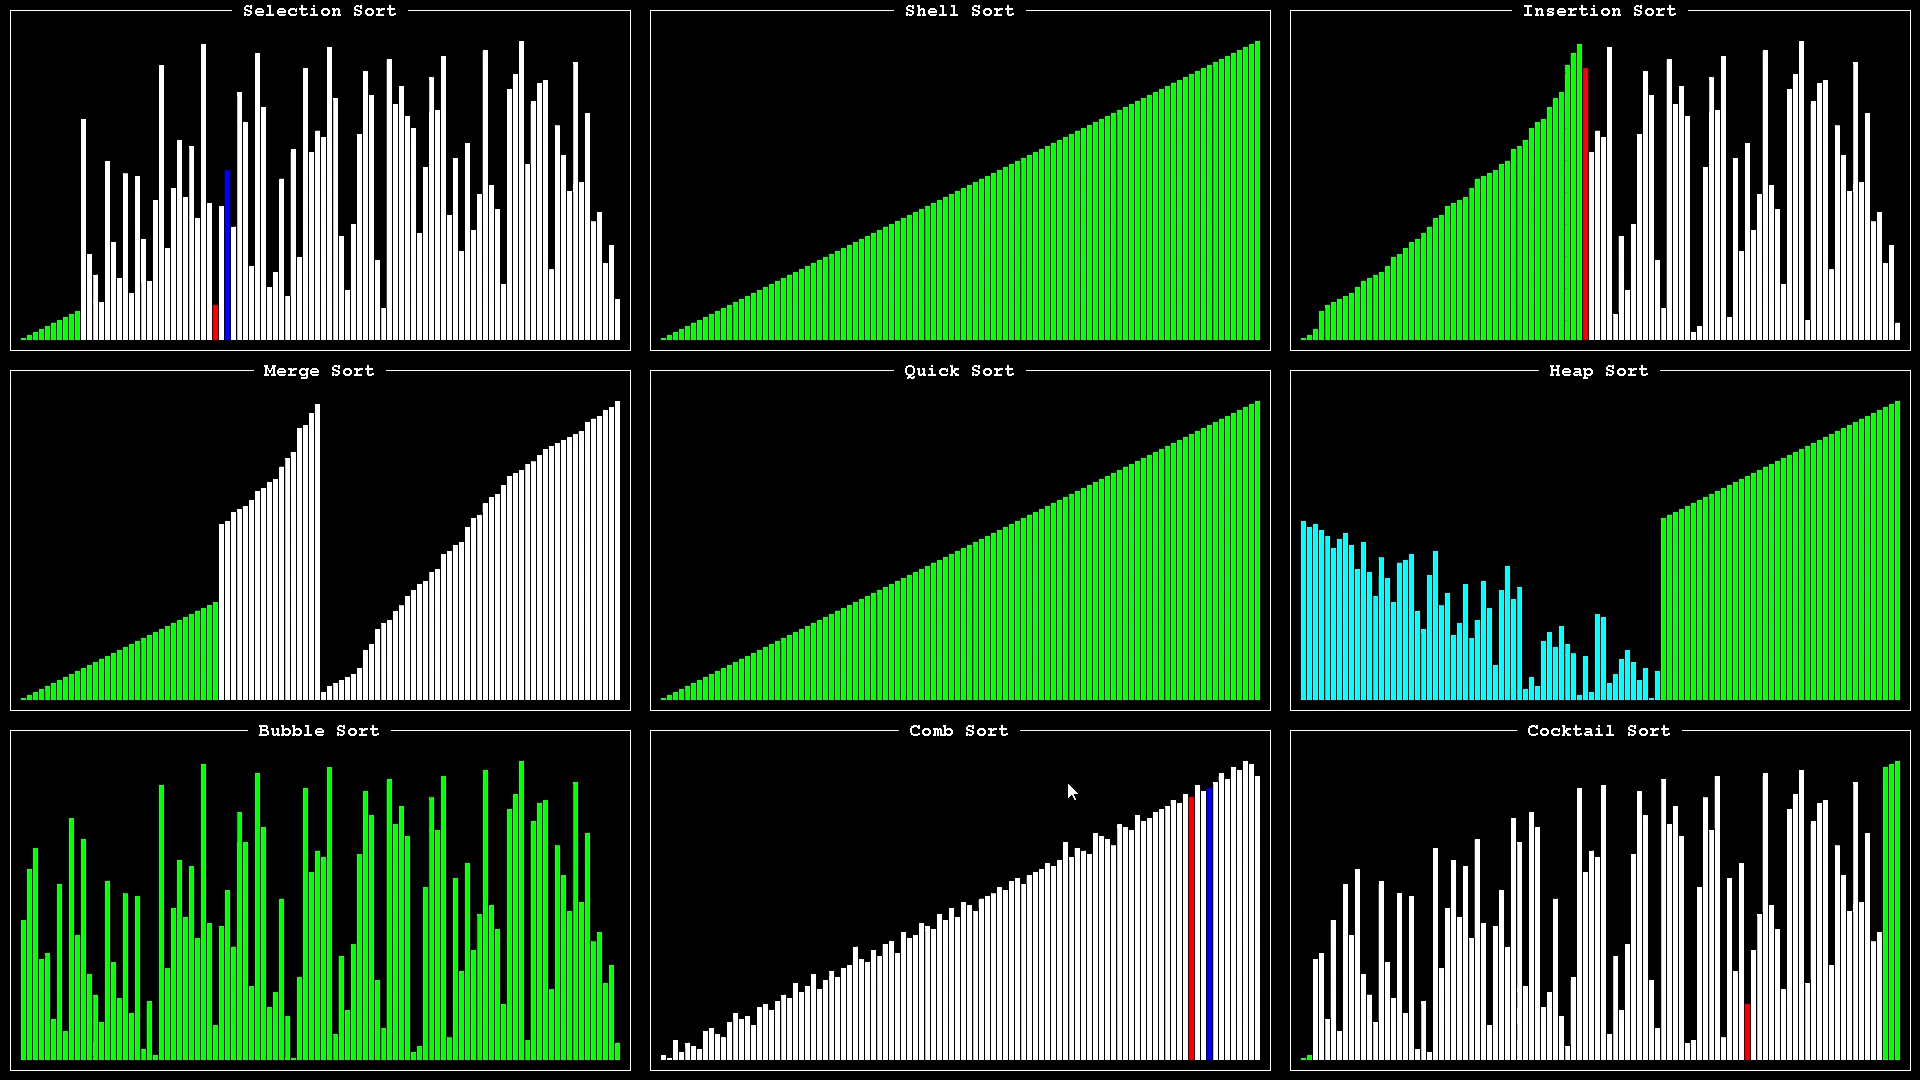
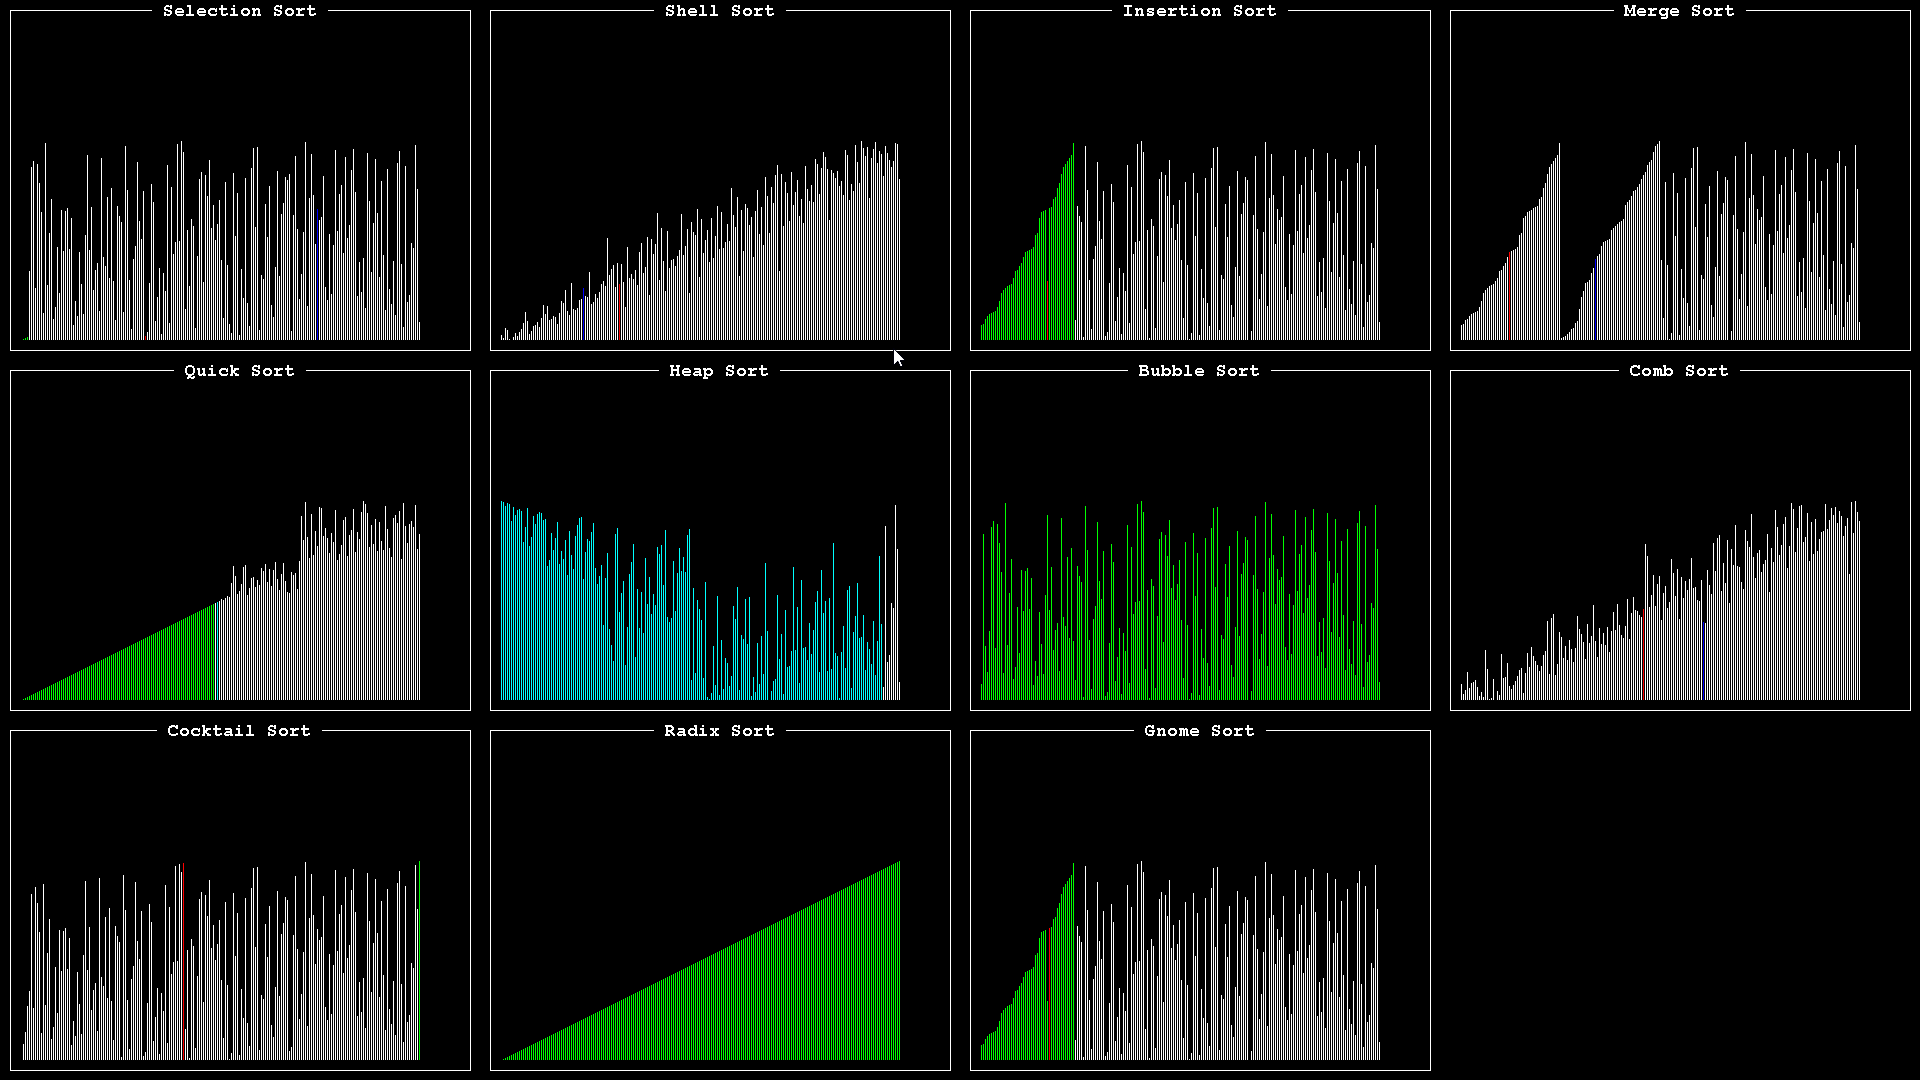
Added Radix and Gnome sort

diff --git a/src/net/mechanika/sorting/RadixSortPanel.java b/src/net/mechanika/sorting/RadixSortPanel.java
@@ -1,0 +1,128 @@
+package net.mechanika.sorting;
+
+import java.awt.Color;
+import java.awt.Graphics;
+import java.util.ArrayList;
+import java.util.List;
+
+public class RadixSortPanel extends SortPanel {
+    private static final long serialVersionUID = 1L;
+    private int redColumn = -1;
+    private int blueColumn = -1;
+    private int cyanColumn = -1;
+    private int greenColumn = -1;
+    final int RADIX = 10;
+
+    public RadixSortPanel(String name, int sleepTime, int width, int height) {
+        super(name, sleepTime, width, height);
+    }
+
+    @Override
+    public void reset() {
+        redColumn = -1;
+        blueColumn = -1;
+        greenColumn = -1;
+        cyanColumn = -1;
+    }
+
+    @Override
+    public void run() {
+        try {
+
+            boolean maxLength = false;
+            int tmp = -1, placement = 1, digit;
+
+            List<Integer>[] bucket = new ArrayList[RADIX];
+            for (int i = 0; i < bucket.length; i++) {
+                bucket[i] = new ArrayList<Integer>();
+            }
+
+            while (!maxLength) {
+                maxLength = true;
+
+                for (int i = 0; i < list.length; i++) {
+                    tmp = list[i] / placement;
+                    digit = tmp % 10;
+                    bucket[digit].add(list[i]);
+                    if (maxLength && tmp > 0) {
+                        maxLength = false;
+                    }
+                    // cyanColumn = (i % 10) == 0 ? i : -1;
+                    // repaint();
+                    // Thread.sleep(2 * sleepTime);
+                }
+
+                // System.out.println("second loop");
+
+                int a = 0;
+                for (int b = 0; b < RADIX; b++) {
+                    for (Integer i : bucket[b]) {
+                        // list[a++] = count[b][i];
+                        redColumn = a;
+                        if (maxLength) {
+                            greenColumn = a;
+                        }
+                        list[a++] = i;
+                        repaint();
+                        Thread.sleep(2 * sleepTime);
+                    }
+                    bucket[b].clear();
+                }
+                // greenColumn = a;
+                // greenColumn--;
+                redColumn = -1;
+                repaint();
+                Thread.sleep(4 * sleepTime);
+
+                placement *= RADIX;
+            }
+
+            // for (int i = 0; i < list.length; i++) {
+            //     greenColumn = i;
+            //     repaint();
+            //     Thread.sleep(sleepTime);
+            // }
+            redColumn = -1;
+            cyanColumn = -1;
+        } catch (InterruptedException e) {
+        }
+        repaint();
+    }
+
+    @Override
+    protected void paintComponent(Graphics g) {
+        super.paintComponent(g);
+        int columnWidth = (getWidth() - 4 * BORDER_WIDTH) / size;
+        int columnHeight = (getHeight() - 4 * BORDER_WIDTH) / size;
+        for (int i = (greenColumn == -1 ? 0 : greenColumn); i < list.length; i++) {
+            g.setColor(Color.WHITE);
+            g.fillRect(2 * BORDER_WIDTH + columnWidth * i, getHeight() - list[i] * columnHeight - 2 * BORDER_WIDTH, columnWidth, list[i] * columnHeight);
+            g.setColor(Color.BLACK);
+            g.drawRect(2 * BORDER_WIDTH + columnWidth * i, getHeight() - list[i] * columnHeight - 2 * BORDER_WIDTH, columnWidth, list[i] * columnHeight);
+        }
+        for (int i = 0; i <= greenColumn; i++) {
+            g.setColor(Color.GREEN);
+            g.fillRect(2 * BORDER_WIDTH + columnWidth * i, getHeight() - list[i] * columnHeight - 2 * BORDER_WIDTH, columnWidth, list[i] * columnHeight);
+            g.setColor(Color.BLACK);
+            g.drawRect(2 * BORDER_WIDTH + columnWidth * i, getHeight() - list[i] * columnHeight - 2 * BORDER_WIDTH, columnWidth, list[i] * columnHeight);
+        }
+        if(redColumn != -1) {
+            g.setColor(Color.RED);
+            g.fillRect(2 * BORDER_WIDTH + columnWidth * redColumn, getHeight() - list[redColumn] * columnHeight - 2 * BORDER_WIDTH, columnWidth, list[redColumn] * columnHeight);
+            g.setColor(Color.BLACK);
+            g.drawRect(2 * BORDER_WIDTH + columnWidth * redColumn, getHeight() - list[redColumn] * columnHeight - 2 * BORDER_WIDTH, columnWidth, list[redColumn] * columnHeight);
+        }
+        if(blueColumn != -1) {
+            g.setColor(Color.BLUE);
+            g.fillRect(2 * BORDER_WIDTH + columnWidth * blueColumn, getHeight() - list[blueColumn] * columnHeight - 2 * BORDER_WIDTH, columnWidth, list[blueColumn] * columnHeight);
+            g.setColor(Color.BLACK);
+            g.drawRect(2 * BORDER_WIDTH + columnWidth * blueColumn, getHeight() - list[blueColumn] * columnHeight - 2 * BORDER_WIDTH, columnWidth, list[blueColumn] * columnHeight);
+        }
+        if(cyanColumn != -1) {
+            g.setColor(Color.CYAN);
+            g.fillRect(2 * BORDER_WIDTH + columnWidth * cyanColumn, getHeight() - list[cyanColumn] * columnHeight - 2 * BORDER_WIDTH, columnWidth, list[cyanColumn] * columnHeight);
+            g.setColor(Color.BLACK);
+            g.drawRect(2 * BORDER_WIDTH + columnWidth * cyanColumn, getHeight() - list[cyanColumn] * columnHeight - 2 * BORDER_WIDTH, columnWidth, list[cyanColumn] * columnHeight);
+        }
+    }
+}

diff --git a/src/net/mechanika/sorting/GnomeSortPanel.java b/src/net/mechanika/sorting/GnomeSortPanel.java
@@ -1,0 +1,78 @@
+package net.mechanika.sorting;
+
+import java.awt.Color;
+import java.awt.Graphics;
+
+public class GnomeSortPanel extends SortPanel {
+    private static final long serialVersionUID = 1L;
+    private int redColumn = -1;
+    private int greenColumn = -1;
+
+    public GnomeSortPanel(String name, int sleepTime, int width, int height) {
+        super(name, sleepTime, width, height);
+    }
+
+    @Override
+    public void reset() {
+        redColumn = -1;
+        greenColumn = 1;
+    }
+
+    @Override
+    public void run() {
+        try {
+            for (int i = 1; i < list.length;) {
+                if (list[i - 1] <= list[i]) {
+                    if (greenColumn <= ++i) {
+                        greenColumn = (i < list.length) ? i : i - 1;
+                        redColumn = -1;
+                        repaint();
+                    }
+                } else {
+                    Thread.sleep(3 * sleepTime);
+                    repaint();
+                    redColumn = i;
+                    repaint();
+                    Thread.sleep(4 * sleepTime);
+                    int tempVal = list[i];
+                    list[i] = list[i - 1];
+                    list[i - 1] = tempVal;
+                    --i;
+                    if (i == 0) {
+                        redColumn = -1;
+                        i = 1;
+                    }
+                }
+                repaint();
+            }
+            redColumn = -1;
+        } catch (InterruptedException e) {
+        }
+        repaint();
+    }
+
+    @Override
+    protected void paintComponent(Graphics g) {
+        super.paintComponent(g);
+        int columnWidth = (getWidth() - 4 * BORDER_WIDTH) / size;
+        int columnHeight = (getHeight() - 4 * BORDER_WIDTH) / size;
+        for (int i = (greenColumn == -1 ? 0 : greenColumn); i < list.length; i++) {
+            g.setColor(Color.WHITE);
+            g.fillRect(2 * BORDER_WIDTH + columnWidth * i, getHeight() - list[i] * columnHeight - 2 * BORDER_WIDTH, columnWidth, list[i] * columnHeight);
+            g.setColor(Color.BLACK);
+            g.drawRect(2 * BORDER_WIDTH + columnWidth * i, getHeight() - list[i] * columnHeight - 2 * BORDER_WIDTH, columnWidth, list[i] * columnHeight);
+        }
+        for (int i = 0; i <= greenColumn; i++) {
+            g.setColor(Color.GREEN);
+            g.fillRect(2 * BORDER_WIDTH + columnWidth * i, getHeight() - list[i] * columnHeight - 2 * BORDER_WIDTH, columnWidth, list[i] * columnHeight);
+            g.setColor(Color.BLACK);
+            g.drawRect(2 * BORDER_WIDTH + columnWidth * i, getHeight() - list[i] * columnHeight - 2 * BORDER_WIDTH, columnWidth, list[i] * columnHeight);
+        }
+        if(redColumn != -1) {
+            g.setColor(Color.RED);
+            g.fillRect(2 * BORDER_WIDTH + columnWidth * redColumn, getHeight() - list[redColumn] * columnHeight - 2 * BORDER_WIDTH, columnWidth, list[redColumn] * columnHeight);
+            g.setColor(Color.BLACK);
+            g.drawRect(2 * BORDER_WIDTH + columnWidth * redColumn, getHeight() - list[redColumn] * columnHeight - 2 * BORDER_WIDTH, columnWidth, list[redColumn] * columnHeight);
+        }
+    }
+}

diff --git a/src/net/mechanika/sorting/Main.java b/src/net/mechanika/sorting/Main.java
@@ -10,19 +10,19 @@ import java.util.concurrent.Executors;
 public class Main extends JApplet {
 
     private static final long serialVersionUID = 1L;
-    private SortPanel[] sortPanels = new SortPanel[9];
-    private static int size = 100;
+    private SortPanel[] sortPanels = new SortPanel[11];
+    private static int size = 200;
     private int sleepTime = 2;
     private String animationName = "";
 
     public Main() {
         setLayout(new GridLayout(1, 1, 0, 0));
         SortPanelsHolder sortPanelHolder = new SortPanelsHolder();
-        sortPanelHolder.setLayout(new GridLayout(0, 3, 0, 0));
+        sortPanelHolder.setLayout(new GridLayout(0, 4, 0, 0));
         sortPanelHolder.setBackground(Color.BLACK);
         sortPanelHolder.setForeground(Color.BLACK);
         Dimension screenSize = Toolkit.getDefaultToolkit().getScreenSize();
-        int width = screenSize.width / 3;
+        int width = screenSize.width / 4;
         int height = screenSize.height / 3;
         sortPanels[0] = new SelectionSortPanel(" Selection Sort ", sleepTime, width, height);
         sortPanels[1] = new ShellSortPanel(" Shell Sort ", sleepTime, width, height);
@@ -33,6 +33,8 @@ public class Main extends JApplet {
         sortPanels[6] = new BubbleSortPanel(" Bubble Sort ", sleepTime, width, height);
         sortPanels[7] = new CombSortPanel(" Comb Sort ", sleepTime, width, height);
         sortPanels[8] = new CocktailSortPanel(" Cocktail Sort ", sleepTime, width, height);
+        sortPanels[9] = new RadixSortPanel(" Radix Sort ", sleepTime, width, height);
+        sortPanels[10] = new GnomeSortPanel(" Gnome Sort ", sleepTime, width, height);
 
         for (int i = 0; i < sortPanels.length; i++) {
             sortPanels[i].setVisible(false);

diff --git a/README.md b/README.md
@@ -3,7 +3,7 @@ Sorting Algorithms
 
 ![](screenshot.png)
 
-Visualization and comparison of 9 different sorting algorithms:
+Visualization and comparison of 11 different sorting algorithms:
 - selection sort
 - shell sort
 - insertion sort
@@ -13,6 +13,8 @@ Visualization and comparison of 9 different sorting algorithms:
 - bubble sort
 - comb sort
 - cocktail sort
+- gnome sort
+- radix sort
 
 The algorithms are run using 4 types of input data:
 - random
